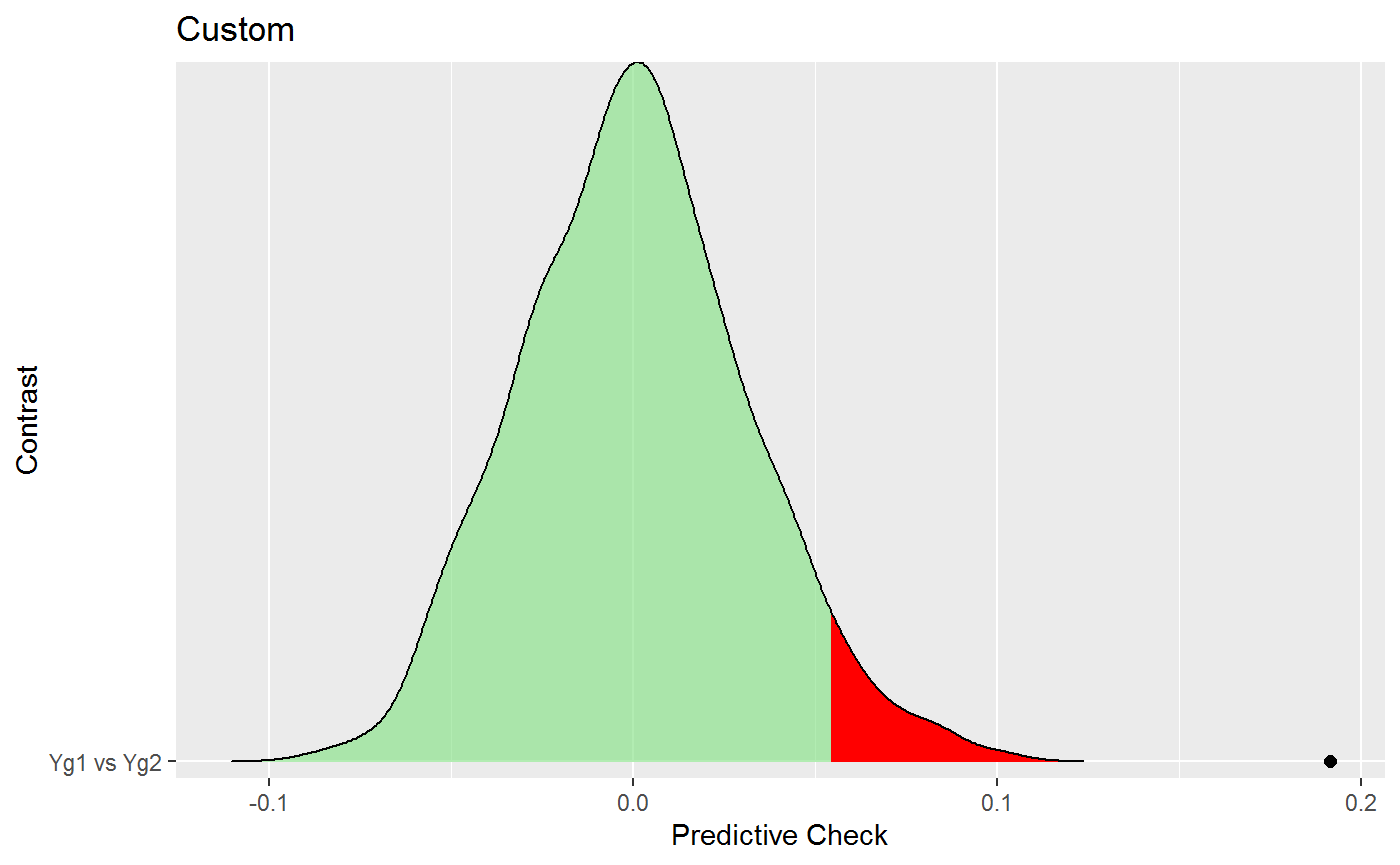
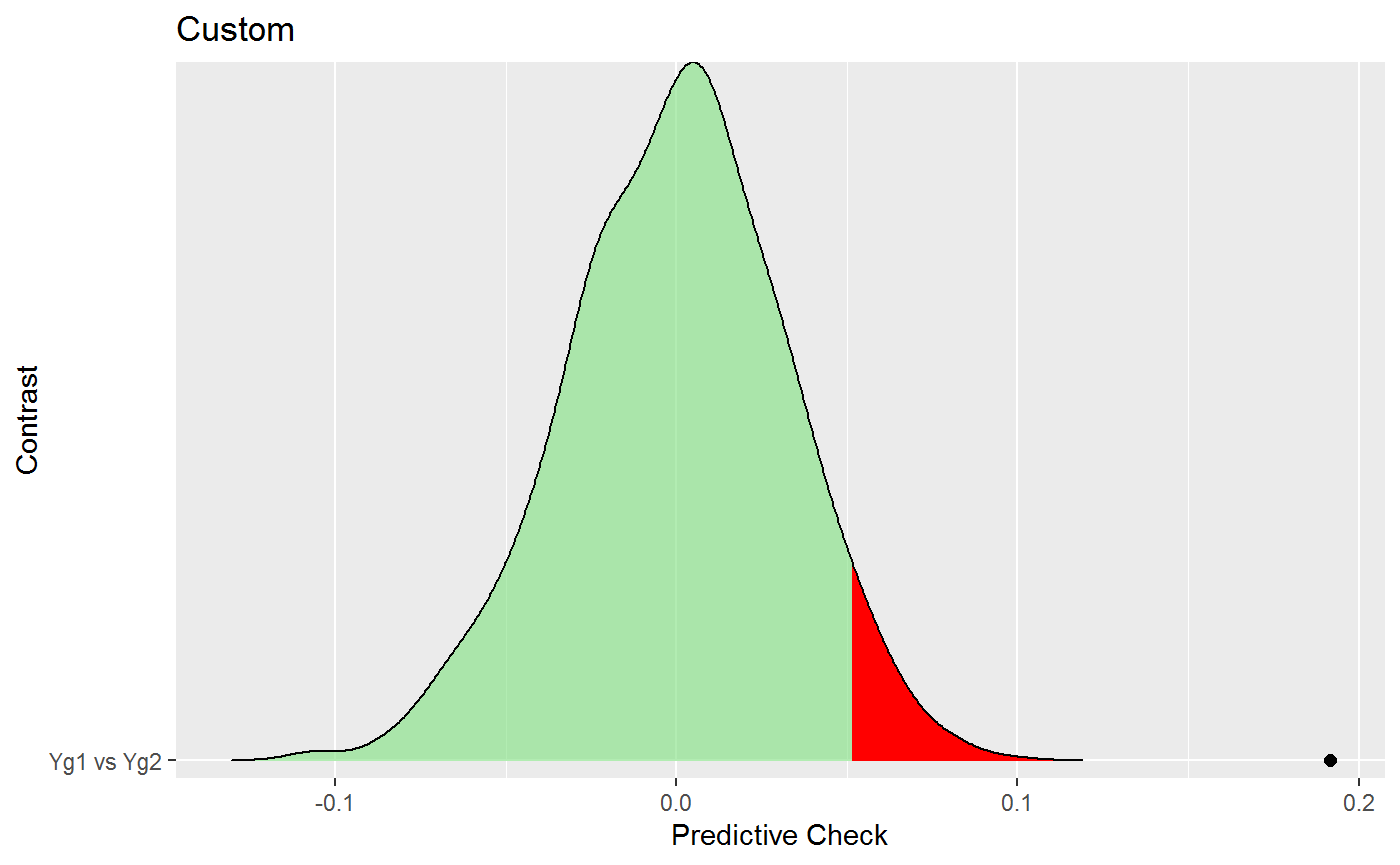
website: remove what is a GGM from home

diff --git a/docs/reference/summary.ggm_compare_explore.html b/docs/reference/summary.ggm_compare_explore.html
@@ -209,51 +209,51 @@ Setting to <code>FALSE</code> includes the column numbers (e.g., <code>1--2</cod
 #&gt; --- 
 #&gt; 
 #&gt;  Relation Post.mean Post.sd Pr.H0 Pr.H1
-#&gt;  A1--A2    0.049    0.045   0.788 0.212
+#&gt;  A1--A2    0.049    0.045   0.789 0.211
 #&gt;  A1--A3   -0.016    0.051   0.859 0.141
-#&gt;  A2--A3   -0.079    0.046   0.603 0.397
-#&gt;  A1--A4    0.015    0.050   0.862 0.138
-#&gt;  A2--A4   -0.033    0.048   0.838 0.162
-#&gt;  A3--A4    0.072    0.043   0.652 0.348
+#&gt;  A2--A3   -0.079    0.046   0.604 0.396
+#&gt;  A1--A4    0.015    0.050   0.863 0.137
+#&gt;  A2--A4   -0.033    0.048   0.839 0.161
+#&gt;  A3--A4    0.072    0.043   0.653 0.347
 #&gt;  A1--A5    0.026    0.050   0.850 0.150
-#&gt;  A2--A5    0.096    0.046   0.437 0.563
-#&gt;  A3--A5    0.096    0.039   0.250 0.750
+#&gt;  A2--A5    0.096    0.046   0.438 0.562
+#&gt;  A3--A5    0.096    0.039   0.251 0.749
 #&gt;  A4--A5   -0.037    0.045   0.837 0.163
-#&gt;  A1--C1   -0.031    0.048   0.848 0.152
-#&gt;  A2--C1   -0.045    0.046   0.812 0.188
-#&gt;  A3--C1    0.057    0.047   0.763 0.237
-#&gt;  A4--C1    0.032    0.048   0.844 0.156
-#&gt;  A5--C1   -0.005    0.046   0.874 0.126
-#&gt;  A1--C2   -0.073    0.046   0.659 0.341
+#&gt;  A1--C1   -0.031    0.048   0.849 0.151
+#&gt;  A2--C1   -0.045    0.046   0.813 0.187
+#&gt;  A3--C1    0.057    0.047   0.764 0.236
+#&gt;  A4--C1    0.032    0.048   0.845 0.155
+#&gt;  A5--C1   -0.005    0.046   0.875 0.125
+#&gt;  A1--C2   -0.073    0.046   0.660 0.340
 #&gt;  A2--C2   -0.002    0.047   0.873 0.127
 #&gt;  A3--C2   -0.020    0.047   0.863 0.137
-#&gt;  A4--C2    0.044    0.045   0.811 0.189
+#&gt;  A4--C2    0.044    0.045   0.812 0.188
 #&gt;  A5--C2    0.024    0.047   0.859 0.141
 #&gt;  C1--C2    0.035    0.040   0.832 0.168
-#&gt;  A1--C3    0.038    0.042   0.837 0.163
-#&gt;  A2--C3    0.017    0.046   0.866 0.134
-#&gt;  A3--C3   -0.047    0.044   0.807 0.193
+#&gt;  A1--C3    0.038    0.042   0.838 0.162
+#&gt;  A2--C3    0.017    0.046   0.867 0.133
+#&gt;  A3--C3   -0.047    0.044   0.808 0.192
 #&gt;  A4--C3    0.059    0.044   0.755 0.245
-#&gt;  A5--C3   -0.004    0.048   0.871 0.129
-#&gt;  C1--C3    0.037    0.049   0.829 0.171
-#&gt;  C2--C3   -0.006    0.042   0.880 0.120
-#&gt;  A1--C4    0.004    0.044   0.875 0.125
+#&gt;  A5--C3   -0.004    0.048   0.872 0.128
+#&gt;  C1--C3    0.037    0.049   0.830 0.170
+#&gt;  C2--C3   -0.006    0.042   0.881 0.119
+#&gt;  A1--C4    0.004    0.044   0.876 0.124
 #&gt;  A2--C4    0.038    0.047   0.831 0.169
-#&gt;  A3--C4    0.108    0.047   0.323 0.677
-#&gt;  A4--C4   -0.071    0.044   0.669 0.331
+#&gt;  A3--C4    0.108    0.047   0.324 0.676
+#&gt;  A4--C4   -0.071    0.044   0.670 0.330
 #&gt;  A5--C4   -0.047    0.049   0.808 0.192
-#&gt;  C1--C4    0.078    0.047   0.623 0.377
-#&gt;  C2--C4    0.012    0.047   0.866 0.134
+#&gt;  C1--C4    0.078    0.047   0.624 0.376
+#&gt;  C2--C4    0.012    0.047   0.867 0.133
 #&gt;  C3--C4   -0.012    0.041   0.878 0.122
-#&gt;  A1--C5   -0.043    0.048   0.817 0.183
-#&gt;  A2--C5   -0.054    0.048   0.783 0.217
-#&gt;  A3--C5    0.053    0.044   0.784 0.216
-#&gt;  A4--C5    0.061    0.046   0.748 0.252
-#&gt;  A5--C5   -0.001    0.046   0.875 0.125
-#&gt;  C1--C5   -0.074    0.047   0.671 0.329
-#&gt;  C2--C5    0.057    0.048   0.770 0.230
-#&gt;  C3--C5    0.067    0.044   0.701 0.299
-#&gt;  C4--C5    0.034    0.038   0.823 0.177
+#&gt;  A1--C5   -0.043    0.048   0.818 0.182
+#&gt;  A2--C5   -0.054    0.048   0.784 0.216
+#&gt;  A3--C5    0.053    0.044   0.785 0.215
+#&gt;  A4--C5    0.061    0.046   0.749 0.251
+#&gt;  A5--C5   -0.001    0.046   0.876 0.124
+#&gt;  C1--C5   -0.074    0.047   0.672 0.328
+#&gt;  C2--C5    0.057    0.048   0.771 0.229
+#&gt;  C3--C5    0.067    0.044   0.702 0.298
+#&gt;  C4--C5    0.034    0.038   0.824 0.176
 #&gt; --- </div><div class='input'># }
 </div></pre>
   </div>

diff --git a/docs/index.html b/docs/index.html
@@ -93,15 +93,6 @@
 <!-- badges: start -->
 
 <p>The <code>R</code> package <strong>BGGM</strong> provides tools for making Bayesian inference in Gaussian graphical models (GGM, Williams and Mulder 2020). The methods are organized around two general approaches for Bayesian inference: (1) estimation and (2) hypothesis testing. The key distinction is that the former focuses on either the posterior or posterior predictive distribution (Gelman, Meng, and Stern 1996; see section 5 in Rubin 1984), whereas the latter focuses on model comparison with the Bayes factor (Jeffreys 1961; Kass and Raftery 1995).</p>
-<div id="-what-is-a-gaussian-graphical-model-" class="section level2">
-<h2 class="hasAnchor">
-<a href="#-what-is-a-gaussian-graphical-model-" class="anchor"></a><i class="fas fa-question-circle"></i> What is a Gaussian Graphical Model ?</h2>
-<div class="quote-container">
-<blockquote>
-<p>A Gaussian graphical model comprises of a set of items or variables, depicted by circles, and a set of lines that visualize relationships between the items or variables…The thickness of these lines represents the strength of the relationships between items or variables…Notably, in the Gaussian graphical model, these lines capture partial correlations, that is, the correlation between two items or variables when controlling for all other items or variables included in the data set (Bhushan et al. 2019).</p>
-</blockquote>
-</div>
-</div>
 <div id="-installation" class="section level2">
 <h2 class="hasAnchor">
 <a href="#-installation" class="anchor"></a><i class="fas fa-cog"></i> Installation</h2>
@@ -263,9 +254,6 @@
 <div id="refs" class="references">
 <div id="ref-albert1993bayesian">
 <p>Albert, James H, and Siddhartha Chib. 1993. “Bayesian Analysis of Binary and Polychotomous Response Data.” <em>Journal of the American Statistical Association</em> 88 (422): 669–79.</p>
-</div>
-<div id="ref-bhushan2019using">
-<p>Bhushan, Nitin, Florian Mohnert, Lise Jans, Daniel Sloot, Casper Albers, and Linda Steg. 2019. “Using a Gaussian Graphical Model to Explore Relationships Between Items and Variables in Environmental Psychology Research.” <em>Frontiers in Psychology</em> 10: 1050.</p>
 </div>
 <div id="ref-cowles1996accelerating">
 <p>Cowles, Mary Kathryn. 1996. “Accelerating Monte Carlo Markov Chain Convergence for Cumulative-Link Generalized Linear Models.” <em>Statistics and Computing</em> 6 (2): 101–11.</p>

diff --git a/docs/reference/bggm_missing.html b/docs/reference/bggm_missing.html
@@ -131,7 +131,7 @@
     <p>Estimation and exploratory hypothesis testing with missing data.</p>
     </div>
 
-    <pre class="usage"><span class='fu'>bggm_missing</span>(<span class='no'>x</span>, <span class='kw'>method</span> <span class='kw'>=</span> <span class='st'>"estimate"</span>, <span class='no'>...</span>)</pre>
+    <pre class="usage"><span class='fu'>bggm_missing</span>(<span class='no'>x</span>, <span class='kw'>iter</span> <span class='kw'>=</span> <span class='fl'>2000</span>, <span class='kw'>method</span> <span class='kw'>=</span> <span class='st'>"estimate"</span>, <span class='no'>...</span>)</pre>
 
     <h2 class="hasAnchor" id="arguments"><a class="anchor" href="#arguments"></a>Arguments</h2>
     <table class="ref-arguments">
@@ -139,6 +139,10 @@
     <tr>
       <th>x</th>
       <td><p>An object of class <code>mid</code> <code><a href='http://stefvanbuuren.github.io/mice/reference/mice.html'>mice</a></code>.</p></td>
+    </tr>
+    <tr>
+      <th>iter</th>
+      <td><p>Number of iterations for each imputed dataset (posterior samples; defaults to 2000).</p></td>
     </tr>
     <tr>
       <th>method</th>
@@ -165,10 +169,13 @@ options are <code>"estimate"</code> and <code>"explore"</code>.</p></td>
       imputing the missing values during model fitting. This option will be incorporated directly into
       the <code><a href='estimate.html'>estimate</a></code> or <code><a href='explore.html'>explore</a></code> functions, such that <code>bggm_missing</code> will
       always support missing data with <code><a href='http://stefvanbuuren.github.io/mice/reference/mice.html'>mice</a></code>.</p>
+
 <p><strong>Support</strong>:</p>
 <p>There is limited support for missing data. As of version <code>2.0.0</code>, it is possible to
  determine the graphical structure with either  <code><a href='estimate.html'>estimate</a></code> or <code><a href='explore.html'>explore</a></code>, in addition
  to plotting the graph with <code><a href='plot.select.html'>plot.select</a></code>. All data types <em>are</em> currently supported.</p>
+<p><strong>Memory Warning</strong>:
+ A model is fitted for each imputed dataset. This results in a potentially large object.</p>
 
     <h2 class="hasAnchor" id="examples"><a class="anchor" href="#examples"></a>Examples</h2>
     <pre class="examples"><div class='input'><span class='co'># \donttest{</span>

diff --git a/docs/reference/ggm_compare_ppc.html b/docs/reference/ggm_compare_ppc.html
@@ -377,7 +377,7 @@ Borkulo CD, Boschloo L, Kossakowski J, Tio P, Schoevers RA, Borsboom D, Waldorp 
 #&gt; Custom: 
 #&gt;  
 #&gt;    contrast custom.obs p.value
-#&gt;  Yg1 vs Yg2       0.16   0.068
+#&gt;  Yg1 vs Yg2       0.16   0.092
 #&gt; --- </div><div class='input'>
 
 <span class='co'># example 2</span>
@@ -430,7 +430,7 @@ Borkulo CD, Boschloo L, Kossakowski J, Tio P, Schoevers RA, Borsboom D, Waldorp 
 #&gt; Custom: 
 #&gt;  
 #&gt;    contrast custom.obs p.value
-#&gt;  Yg1 vs Yg2         75   0.584
+#&gt;  Yg1 vs Yg2         75    0.56
 #&gt; --- </div><div class='input'>
 
 <span class='co'>#############################</span>
@@ -455,31 +455,31 @@ Borkulo CD, Boschloo L, Kossakowski J, Tio P, Schoevers RA, Borsboom D, Waldorp 
 #&gt;  
 #&gt; Yg1 vs Yg2 
 #&gt;  Node JSD.obs p_value
-#&gt;     1   0.001   0.624
-#&gt;     2   0.000   0.944
-#&gt;     3   0.006   0.076
-#&gt;     4   0.005   0.264
-#&gt;     5   0.006   0.068
-#&gt;     6   0.002   0.456
-#&gt;     7   0.000   0.784
-#&gt;     8   0.000   0.844
-#&gt;     9   0.000   0.868
+#&gt;     1   0.001   0.668
+#&gt;     2   0.000   0.976
+#&gt;     3   0.006   0.084
+#&gt;     4   0.005   0.220
+#&gt;     5   0.006   0.096
+#&gt;     6   0.002   0.408
+#&gt;     7   0.000   0.788
+#&gt;     8   0.000   0.812
+#&gt;     9   0.000   0.904
 #&gt;    10   0.003   0.236
-#&gt;    11   0.020   0.020
-#&gt;    12   0.009   0.020
-#&gt;    13   0.003   0.276
-#&gt;    14   0.004   0.100
-#&gt;    15   0.011   0.056
-#&gt;    16   0.001   0.464
-#&gt;    17   0.000   0.592
-#&gt;    18   0.000   0.584
-#&gt;    19   0.000   0.796
-#&gt;    20   0.000   0.724
-#&gt;    21   0.000   0.888
-#&gt;    22   0.003   0.460
-#&gt;    23   0.002   0.388
-#&gt;    24   0.013   0.196
-#&gt;    25   0.018   0.052
+#&gt;    11   0.020   0.016
+#&gt;    12   0.009   0.016
+#&gt;    13   0.003   0.292
+#&gt;    14   0.004   0.108
+#&gt;    15   0.011   0.028
+#&gt;    16   0.001   0.448
+#&gt;    17   0.000   0.628
+#&gt;    18   0.000   0.604
+#&gt;    19   0.000   0.716
+#&gt;    20   0.000   0.664
+#&gt;    21   0.000   0.912
+#&gt;    22   0.003   0.456
+#&gt;    23   0.002   0.392
+#&gt;    24   0.013   0.180
+#&gt;    25   0.018   0.036
 #&gt; --- 
 #&gt; 
 #&gt; note:

diff --git a/docs/reference/plot.ggm_compare_ppc.html b/docs/reference/plot.ggm_compare_ppc.html
@@ -207,8 +207,8 @@ many examples.</p>
 <span class='no'>global_test</span> <span class='kw'>&lt;-</span> <span class='fu'><a href='ggm_compare_ppc.html'>ggm_compare_ppc</a></span>(<span class='no'>Ym</span>, <span class='no'>Yf</span>,
                                <span class='kw'>iter</span> <span class='kw'>=</span> <span class='fl'>250</span>,
                                <span class='kw'>progress</span> <span class='kw'>=</span> <span class='fl'>FALSE</span>)</div><div class='output co'>#&gt; <span class='message'>BGGM: Predictive Check (Contrast 1)</span></div><div class='output co'>#&gt; <span class='message'>BGGM: Finished</span></div><div class='input'>
-<span class='fu'><a href='https://rdrr.io/r/base/plot.html'>plot</a></span>(<span class='no'>global_test</span>)</div><div class='output co'>#&gt; $plot_sse</div><div class='output co'>#&gt; <span class='message'>Picking joint bandwidth of 0.0163</span></div><div class='img'><img src='plot.ggm_compare_ppc-1.png' alt='' width='700' height='433' /></div><div class='output co'>#&gt; 
-#&gt; $plot_jsd</div><div class='output co'>#&gt; <span class='message'>Picking joint bandwidth of 0.0068</span></div><div class='img'><img src='plot.ggm_compare_ppc-2.png' alt='' width='700' height='433' /></div><div class='output co'>#&gt; </div><div class='input'># }
+<span class='fu'><a href='https://rdrr.io/r/base/plot.html'>plot</a></span>(<span class='no'>global_test</span>)</div><div class='output co'>#&gt; $plot_sse</div><div class='output co'>#&gt; <span class='message'>Picking joint bandwidth of 0.0154</span></div><div class='img'><img src='plot.ggm_compare_ppc-1.png' alt='' width='700' height='433' /></div><div class='output co'>#&gt; 
+#&gt; $plot_jsd</div><div class='output co'>#&gt; <span class='message'>Picking joint bandwidth of 0.00716</span></div><div class='img'><img src='plot.ggm_compare_ppc-2.png' alt='' width='700' height='433' /></div><div class='output co'>#&gt; </div><div class='input'># }
 </div></pre>
   </div>
   <div class="col-md-3 hidden-xs hidden-sm" id="pkgdown-sidebar">

diff --git a/docs/reference/predictability.html b/docs/reference/predictability.html
@@ -231,11 +231,11 @@ doi: <a href='https://doi.org/10.31234/OSF.IO/X8DPR'>10.31234/OSF.IO/X8DPR</a>
 #&gt; Estimates:
 #&gt; 
 #&gt;  Node Post.mean Post.sd Cred.lb Cred.ub
-#&gt;    B1     0.445   0.048   0.355   0.536
-#&gt;    B2     0.495   0.049   0.401   0.585
-#&gt;    B3     0.554   0.048   0.463   0.651
-#&gt;    B4     0.494   0.049   0.396   0.592
-#&gt;    B5     0.454   0.046   0.361   0.541</div><div class='input'># }
+#&gt;    B1     0.445   0.046   0.357   0.537
+#&gt;    B2     0.490   0.049   0.400   0.591
+#&gt;    B3     0.555   0.046   0.465   0.649
+#&gt;    B4     0.497   0.050   0.402   0.598
+#&gt;    B5     0.453   0.044   0.373   0.542</div><div class='input'># }
 </div></pre>
   </div>
   <div class="col-md-3 hidden-xs hidden-sm" id="pkgdown-sidebar">

diff --git a/docs/reference/summary.predictability.html b/docs/reference/summary.predictability.html
@@ -171,11 +171,11 @@ distributions (defaults to 0.95; must be between 0 and 1).</p></td>
 #&gt; Estimates:
 #&gt; 
 #&gt;  Node Post.mean Post.sd Cred.lb Cred.ub
-#&gt;    B1     0.450   0.046   0.364   0.547
-#&gt;    B2     0.506   0.052   0.408   0.606
-#&gt;    B3     0.550   0.045   0.467   0.643
-#&gt;    B4     0.494   0.049   0.411   0.606
-#&gt;    B5     0.455   0.046   0.375   0.539</div><div class='input'>
+#&gt;    B1     0.451   0.049   0.359   0.552
+#&gt;    B2     0.499   0.045   0.424   0.595
+#&gt;    B3     0.554   0.047   0.464   0.649
+#&gt;    B4     0.494   0.047   0.412   0.580
+#&gt;    B5     0.462   0.046   0.381   0.557</div><div class='input'>
 # }
 
 </div></pre>

diff --git a/docs/articles/ppc_custom.html b/docs/articles/ppc_custom.html
@@ -451,7 +451,7 @@
 <p>and plotted</p>
 <div class="sourceCode" id="cb31"><html><body><pre class="r"><span class="fu"><a href="https://rdrr.io/r/base/plot.html">plot</a></span>(<span class="no">ppc</span>)</pre></body></html></div>
 <pre><code>## $plot_custom</code></pre>
-<pre><code>## Picking joint bandwidth of 0.00704</code></pre>
+<pre><code>## Picking joint bandwidth of 0.00726</code></pre>
 <p><img src="ppc_custom_files/figure-html/unnamed-chunk-23-1.png" width="700"></p>
 <p>which shows that the clustering in the data appears to be different (given the observed value exceeds the entire predictive distribution).</p>
 </div>

diff --git a/docs/reference/plot.select.html b/docs/reference/plot.select.html
@@ -186,7 +186,7 @@ This indicates groups of nodes that should be the same color
     </tr>
     <tr>
       <th>...</th>
-      <td><p>Additional options passed to <a href='https://rdrr.io/pkg/GGally/man/ggnet2.html'>ggnet2</a></p></td>
+      <td><p>Additional options passed to <a href='https://ggobi.github.io/ggally/reference/ggnet2.html'>ggnet2</a></p></td>
     </tr>
     </table>
 
